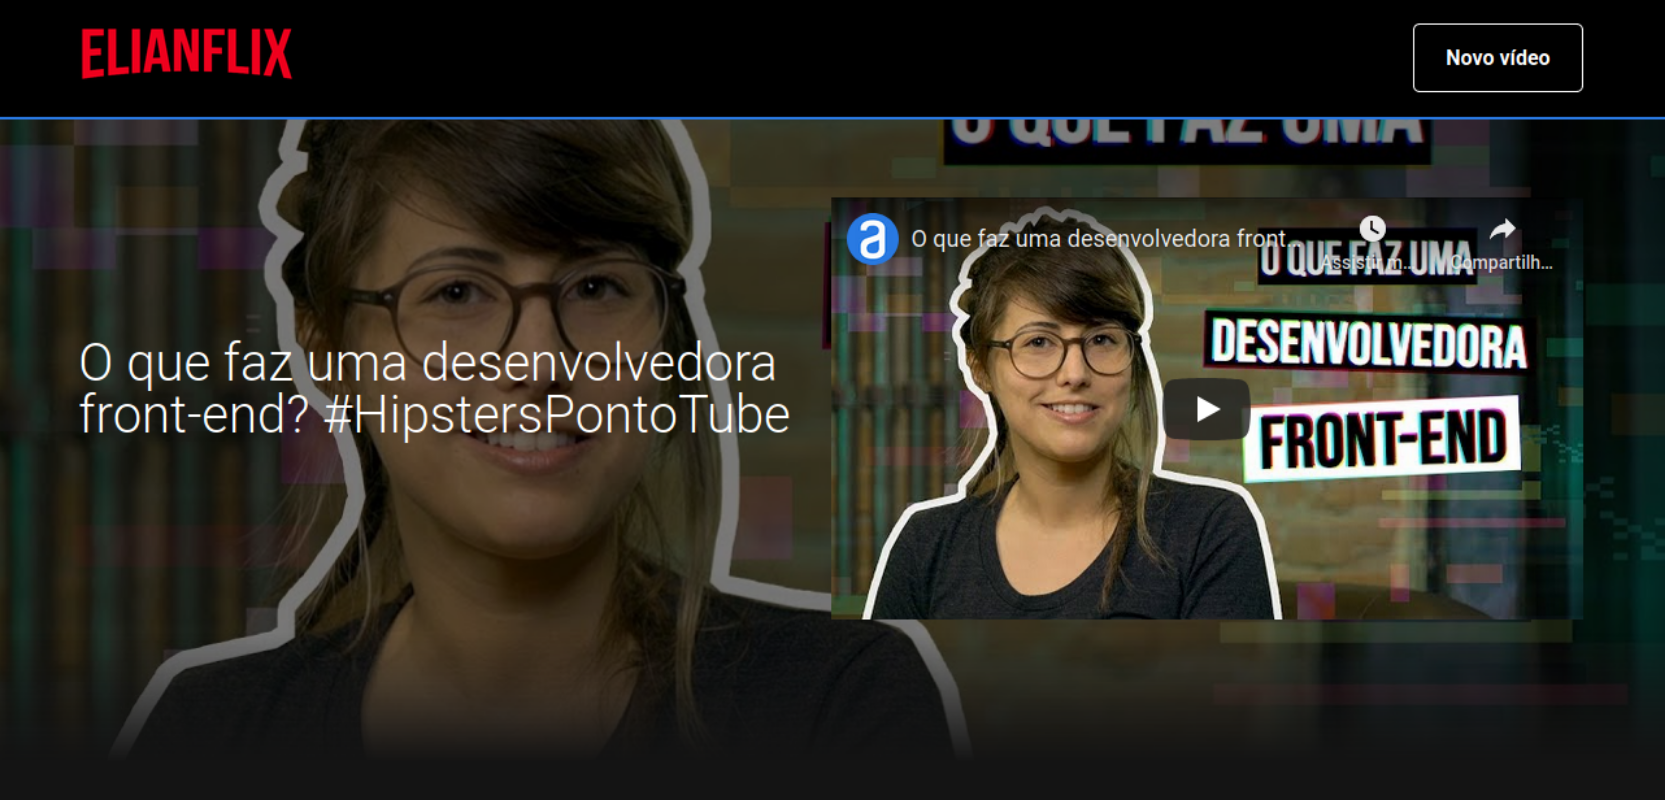
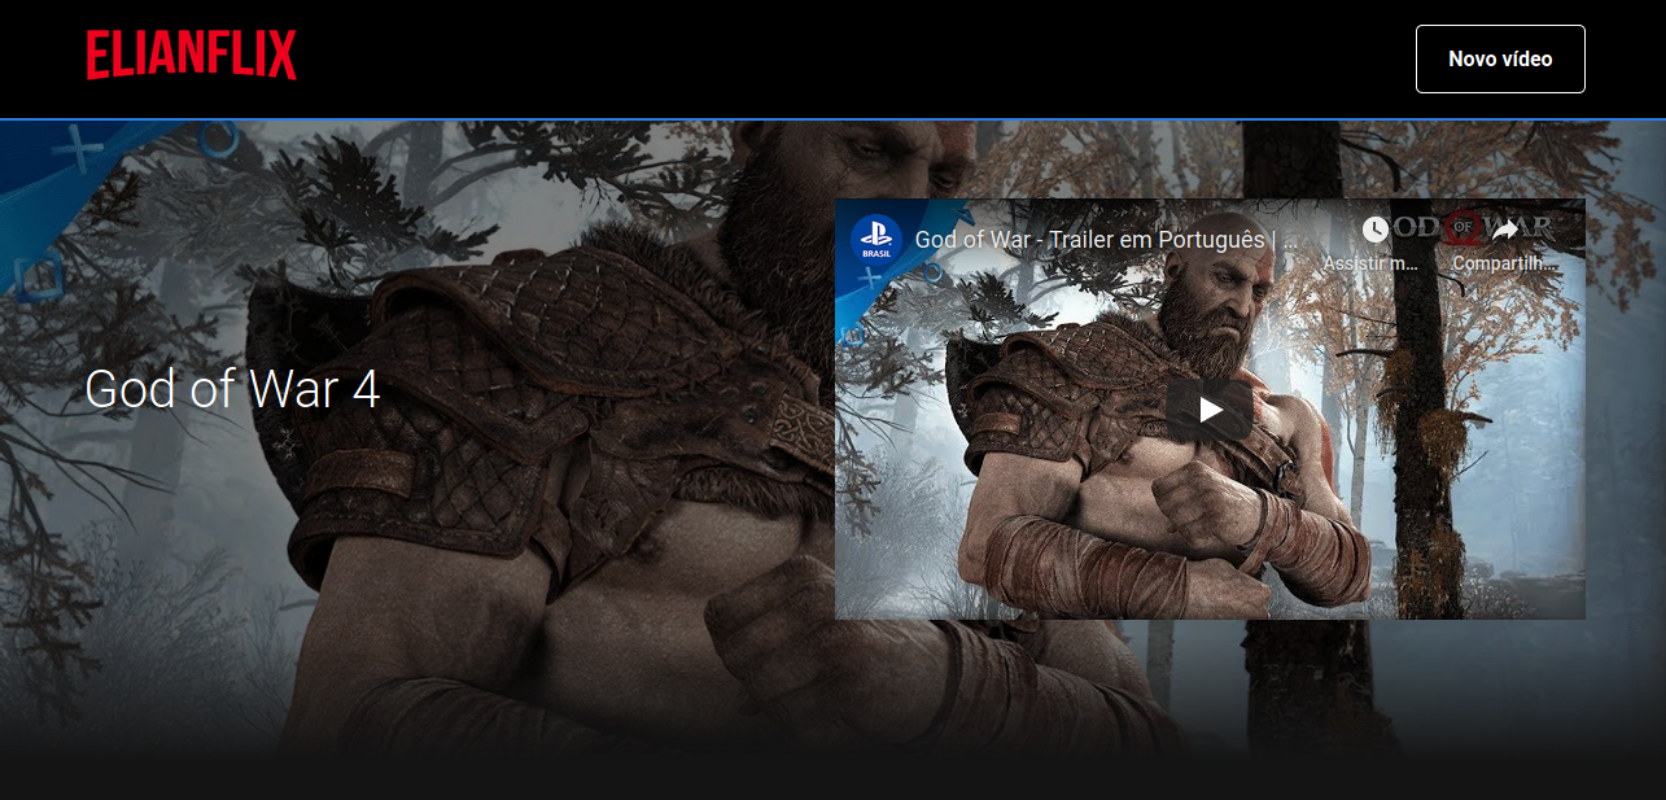
Correção do Slider, Página 404 e mudança da Home

diff --git a/src/components/Carousel/components/Slider/index.js b/src/components/Carousel/components/Slider/index.js
@@ -1,0 +1,59 @@
+/* eslint-disable react/jsx-props-no-spreading */
+import React from 'react';
+import SlickSlider from 'react-slick';
+import styled from 'styled-components';
+
+const Container = styled.ul`
+  padding: 0;
+  margin: 0;
+  .slick-prev,
+  .slick-next {
+    z-index: 50;
+    top: 0;
+    bottom: 0;
+    margin: auto;
+    width: 30px;
+    height: 30px;
+    transform: initial;
+    &:before {
+      font-size: 30px;
+    }
+  }
+  
+  .slick-prev {
+    left: 0;
+  }
+  .slick-next {
+    right: 16px;
+  }
+`;
+
+export const SliderItem = styled.li`
+  margin-right: 16px;
+  img {
+    margin: 16px;
+    width: 298px;
+    height: 197px;
+    object-fit: cover;
+  }
+`;
+
+const Slider = ({ children }) => (
+  <Container>
+    <SlickSlider {...{
+      dots: false,
+      infinite: false,
+      speed: 300,
+      centerMode: false,
+      variableWidth: true,
+      adaptiveHeight: true,
+      slidesToScroll: 1,
+      slidesToShow: 4,
+    }}
+    >
+      {children}
+    </SlickSlider>
+  </Container>
+);
+
+export default Slider; 

diff --git a/src/components/Carousel/index.js b/src/components/Carousel/index.js
@@ -1,8 +1,9 @@
 import React from 'react';
 import { VideoCardGroupContainer, VideoCardList, Title, ExtraLink } from './styles';
+import Slider, { SliderItem } from './components/Slider';
 import VideoCard from './components/VideoCard';
 
-function VideoCardGroup({
+function Carousel({
   ignoreFirstVideo,
   category,
 }) {
@@ -24,25 +25,25 @@ function VideoCardGroup({
           }
         </>
       )}
-      <VideoCardList>
+      <Slider>
         {videos.map((video, index) => {
           if (ignoreFirstVideo && index === 0) {
             return null;
           }
 
           return (
-            <li key={video.titulo}>
+            <SliderItem key={video.titulo}>
               <VideoCard
                 videoTitle={video.titulo}
                 videoURL={video.url}
                 categoryColor={categoryColor}
               />
-            </li>
+            </SliderItem>
           );
         })}
-      </VideoCardList>
+      </Slider>
     </VideoCardGroupContainer>
   );
 }
 
-export default VideoCardGroup;
+export default Carousel;

diff --git a/public/index.html b/public/index.html
@@ -11,6 +11,8 @@
     />
     <link rel="apple-touch-icon" href="%PUBLIC_URL%/logo192.png" />
     <link href="https://fonts.googleapis.com/css2?family=Roboto:ital,wght@0,100;0,300;0,400;0,500;0,700;0,900;1,100;1,300;1,400;1,500;1,700;1,900&display=swap" rel="stylesheet"> 
+    <link rel="stylesheet" href="https://cdnjs.cloudflare.com/ajax/libs/slick-carousel/1.6.0/slick.min.css">
+    <link rel="stylesheet" href="https://cdnjs.cloudflare.com/ajax/libs/slick-carousel/1.6.0/slick-theme.min.css">
     <!--
       manifest.json provides metadata used when your web app is installed on a
       user's mobile device or desktop. See https://developers.google.com/web/fundamentals/web-app-manifest/

diff --git a/src/pages/cadastro/Categoria/index.js b/src/pages/cadastro/Categoria/index.js
@@ -7,6 +7,19 @@ function CadastroCategoria() {
         <PageDefault>
             <h1>Cadastro de Vídeo</h1>
 
+            <form>
+                <label>
+                Nome da Categoria:
+                <input
+                    type="text"
+                />
+                </label>
+
+                <button>
+                Cadastrar
+                </button>
+            </form>
+
             <Link to="/">
                 Ir para a Home
             </Link>

diff --git a/src/pages/Home/index.js b/src/pages/Home/index.js
@@ -11,9 +11,9 @@ function Home() {
       <Menu />
 
       <BannerMain
-          videoTitle={dadosIniciais.categorias[0].videos[0].titulo}
-          url={dadosIniciais.categorias[0].videos[0].url}
-          videosDescription={"O que é FrontEnd?"}
+          videoTitle={dadosIniciais.categorias[4].videos[2].titulo}
+          url={dadosIniciais.categorias[4].videos[2].url}
+          videosDescription={"God of War"}
         />
 
         <Carousel

diff --git a/src/index.js b/src/index.js
@@ -5,10 +5,9 @@ import Home from './pages/Home';
 
 import CadastroVideo from './pages/cadastro/Video';
 import CadastroCategoria from './pages/cadastro/Categoria';
+import Pagina404 from './pages/Pagina404';
 
 import { BrowserRouter, Switch, Route } from 'react-router-dom';
-
-const Pagina404 = () => (<div>Página 404</div>);
 
 ReactDOM.render(
   <BrowserRouter>

diff --git a/src/pages/Pagina404/index.js b/src/pages/Pagina404/index.js
@@ -1,0 +1,13 @@
+import React from 'react';
+import PageDefault from '../../components/PageDefault';
+
+function Pagina404() {
+    return (
+        <PageDefault>
+            <h1>Página 404!</h1>
+            <p>Ooops! A página requisitada não existe!</p>
+        </PageDefault>
+    );
+}
+
+export default Pagina404;
